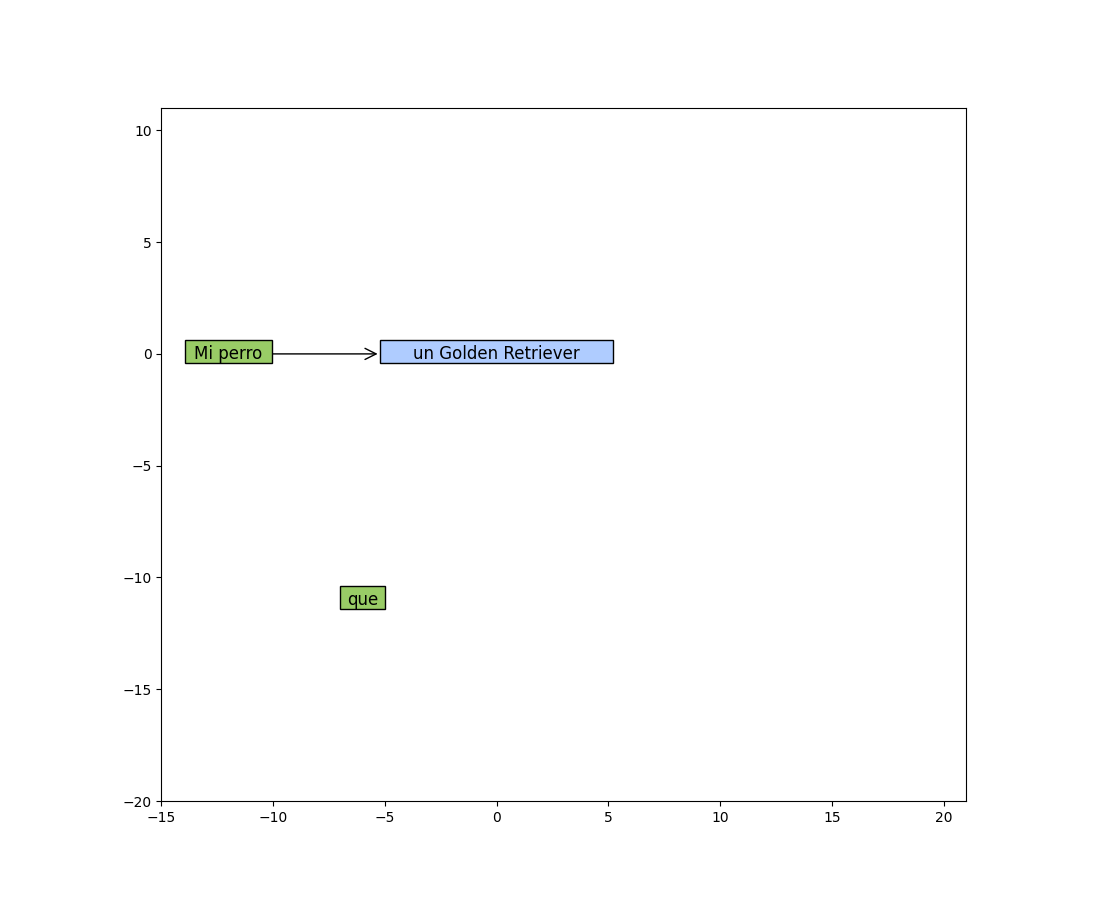
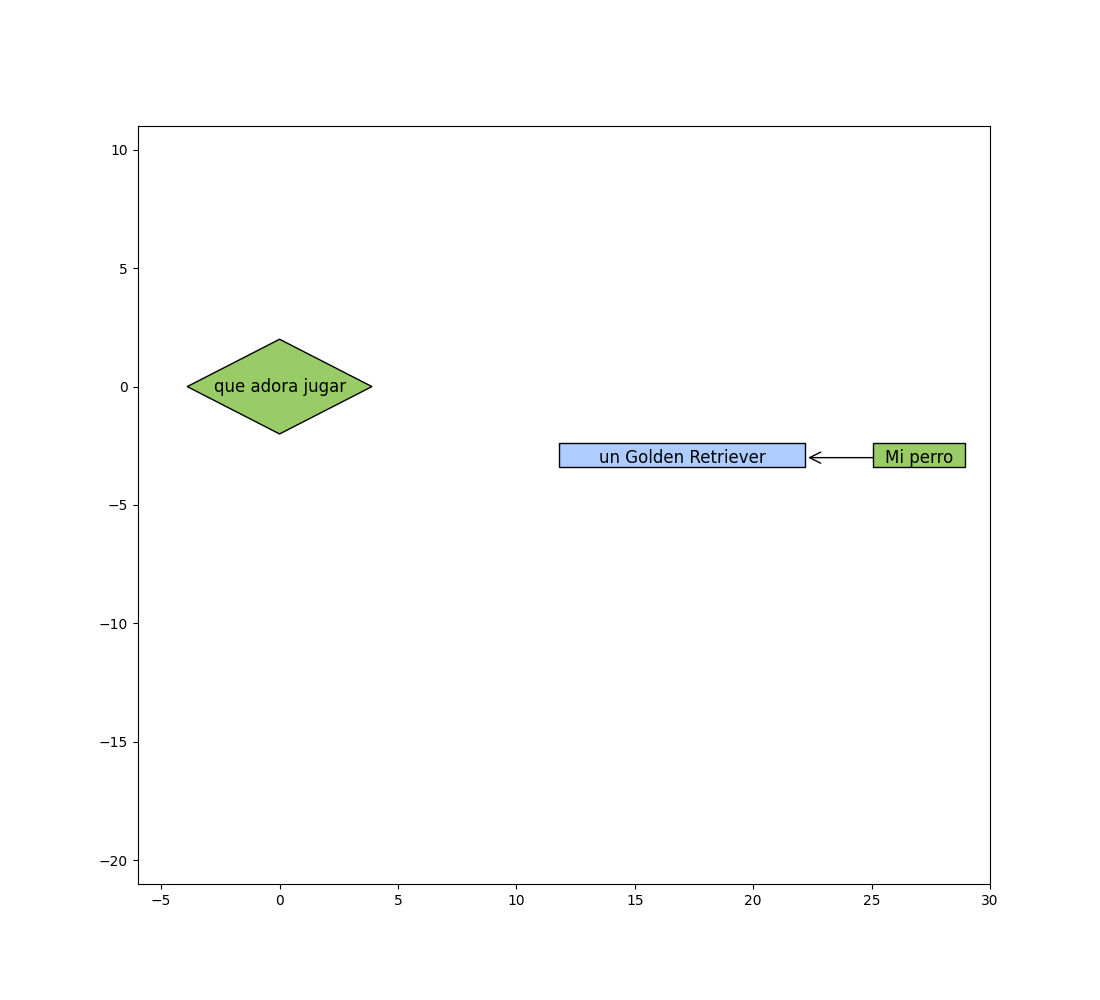
Añadidas excepciones en palabras para unirlas correctamente. Añadido Rombo para relaciones n-arias

diff --git a/src/npl_analyzer_v2.py b/src/npl_analyzer_v2.py
@@ -152,6 +152,28 @@ def get_list_palabras(list_token_nlp_oraciones):
                     nueva_palabra = token_nlp.token_nlp_padre.palabra_que_representa
                     if nueva_palabra is not None and isinstance(nueva_palabra, Palabra):
                         nueva_palabra.add_aux_text(token_nlp.text, token_nlp.position_doc)
+                if token_nlp.tipo_morfol == 'VERB' and token_nlp.lugar_sintact_original in ('xcomp') and \
+                        token_nlp.token_nlp_padre is not None and token_nlp.token_nlp_padre.tipo_morfol == 'VERB':
+                    # Es el verbo que acompaña a otro verbo (adora jugar)
+                    nueva_palabra = token_nlp.token_nlp_padre.palabra_que_representa
+                    if nueva_palabra is not None and isinstance(nueva_palabra, Palabra):
+                        nueva_palabra.add_aux_text(token_nlp.text, token_nlp.position_doc)
+
+
+                # Numeros
+                elif token_nlp.tipo_morfol == 'NUM' and token_nlp.lugar_sintact_original in ('nummod') and \
+                     token_nlp.token_nlp_padre is not None and token_nlp.token_nlp_padre.tipo_morfol == 'NOUN':
+                    nueva_palabra = token_nlp.token_nlp_padre.palabra_que_representa
+                    if nueva_palabra is not None and isinstance(nueva_palabra, Palabra):
+                        nueva_palabra.add_aux_text(token_nlp.text, token_nlp.position_doc)
+
+                # preposision Que (a veces no lo identifica como preposicion)
+                elif token_nlp.token_nlp_padre is not None and token_nlp.token_nlp_padre.tipo_morfol == 'VERB' and \
+                        token_nlp.lema == 'que':
+                    nueva_palabra = token_nlp.token_nlp_padre.palabra_que_representa
+                    if nueva_palabra is not None and isinstance(nueva_palabra, Palabra):
+                        nueva_palabra.add_aux_text(token_nlp.text, token_nlp.position_doc)
+
 
                 elif token_nlp.tipo_morfol == 'PRON' and token_nlp.lugar_sintact_original not in ('nsubj', 'obj') and \
                      token_nlp.token_nlp_padre is not None and token_nlp.token_nlp_padre.tipo_morfol == 'VERB':
@@ -373,9 +395,20 @@ def preprocesing_oracion_nlp(texto):
             token_nlp.refresh_parents_children()
         # quitar todos los tokens que sean de tipo puntuacion
         list_token_nlp = [token_nlp for token_nlp in list_token_nlp if token_nlp.tipo_morfol != TYPE_MORF_PUNCT]
-        list_token_nlp_oraciones.append(list_token_nlp)
+        if list_token_nlp != []:
+            for token_nlp in list_token_nlp:
+                token_nlp.refresh_hijos_token_nlp()
+            list_token_nlp_oraciones.append(list_token_nlp)
 
     return list_token_nlp_oraciones
+
+
+def refresh_hijos_token_nlp(token_nlp, list_token_nlp_oracion):
+    list_hijos = []
+    for token_nlp_hijo in token_nlp.children:
+        list_hijos.append(token_nlp_hijo)
+        list_hijos = list_hijos + det_hijos_token_nlp(token_nlp_hijo)
+    return list_hijos
 
 
 def spacy_patrones(doc, nlp):

diff --git a/src/visualizacion/printer_graph.py b/src/visualizacion/printer_graph.py
@@ -570,12 +570,24 @@ def draw_all_nodes(ax, position_elems, list_palabras):
                     color=dict_color_figura_letra.get(pal.lugar_sintactico, colores.black))
 
         elif pal.tipo_figura == FIGURA_ROMBO:
+            import matplotlib.patches as patches
             pal.tam_eje_x_figura = tam_figuras.ROMBO[0] * pal.dimension_x
-            pal.tam_eje_y_figura = tam_figuras.ROMBO[1] * pal.dimension_y
-            polygon_radius = 0.4 * len(node_text)
-            polygon = RegularPolygon((x, y), numVertices=4, radius=polygon_radius, orientation=0,
-                                     color=dict_color_figura.get(pal.lugar_sintactico, color_figura),
+            pal.tam_eje_y_figura = (tam_figuras.ROMBO[1] * pal.dimension_x) + pal.dimension_y
+            # Crear el rombo
+            vertices = [(x - pal.tam_eje_x_figura / 2, y),  # Punto izquierdo
+                        (x, y + pal.tam_eje_y_figura / 2),  # Punto superior
+                        (x + pal.tam_eje_x_figura / 2, y),  # Punto derecho
+                        (x, y - pal.tam_eje_y_figura / 2)]  # Punto inferior
+
+            #polygon_radius = 0.4 * len(node_text)
+            #polygon = RegularPolygon((x, y), numVertices=4, radius=polygon_radius, orientation=0,
+            #                         facecolor=dict_color_figura.get(pal.lugar_sintactico, color_figura),
+            #                         edgecolor='black', zorder=2)
+            polygon = patches.Polygon(vertices, closed=True,
+                                    facecolor=dict_color_figura.get(pal.lugar_sintactico, color_figura),
                                      edgecolor='black', zorder=2)
+
+
             ax.add_patch(polygon)
             ax.text(x, y, node_text, fontsize=12, ha='center', va='center', zorder=3,
                     color=dict_color_figura_letra.get(pal.lugar_sintactico, colores.black))

diff --git a/src/tests_local.py b/src/tests_local.py
@@ -7,7 +7,7 @@ from visualizacion.generator_graph import generate_graph
 
 def ejecutar_ec2():
     #texto = "Mi perro y mi gato juegan juntos en el parque con una pelota"
-    texto = "Mi perro es un Golden Retriever de tres años que adora jugar con su pelota en el parque."
+    texto = "Mi perro es un Golden Retriever, tiene tres años que adora jugar con su pelota en el parque."
     # datos_serializados = ejecutar_nlp_texto(texto)
     # # Deserializar los datos
     # lista_palabras, lista_relaciones, Palabra, Relacion = pickle.loads(datos_serializados)

diff --git a/src/constants/tam_figuras.py b/src/constants/tam_figuras.py
@@ -3,4 +3,4 @@ ELIPSE = (1.2, 0.3, 1.1)
 RECTANGULO = (1.3, 1.3)
 HEXAGONO = (0.35, 0.35)
 CIRCULO = (1.1, 1.1, 0.5)
-ROMBO = (1.3, 1.3)
+ROMBO = (1.3, 0.5)
